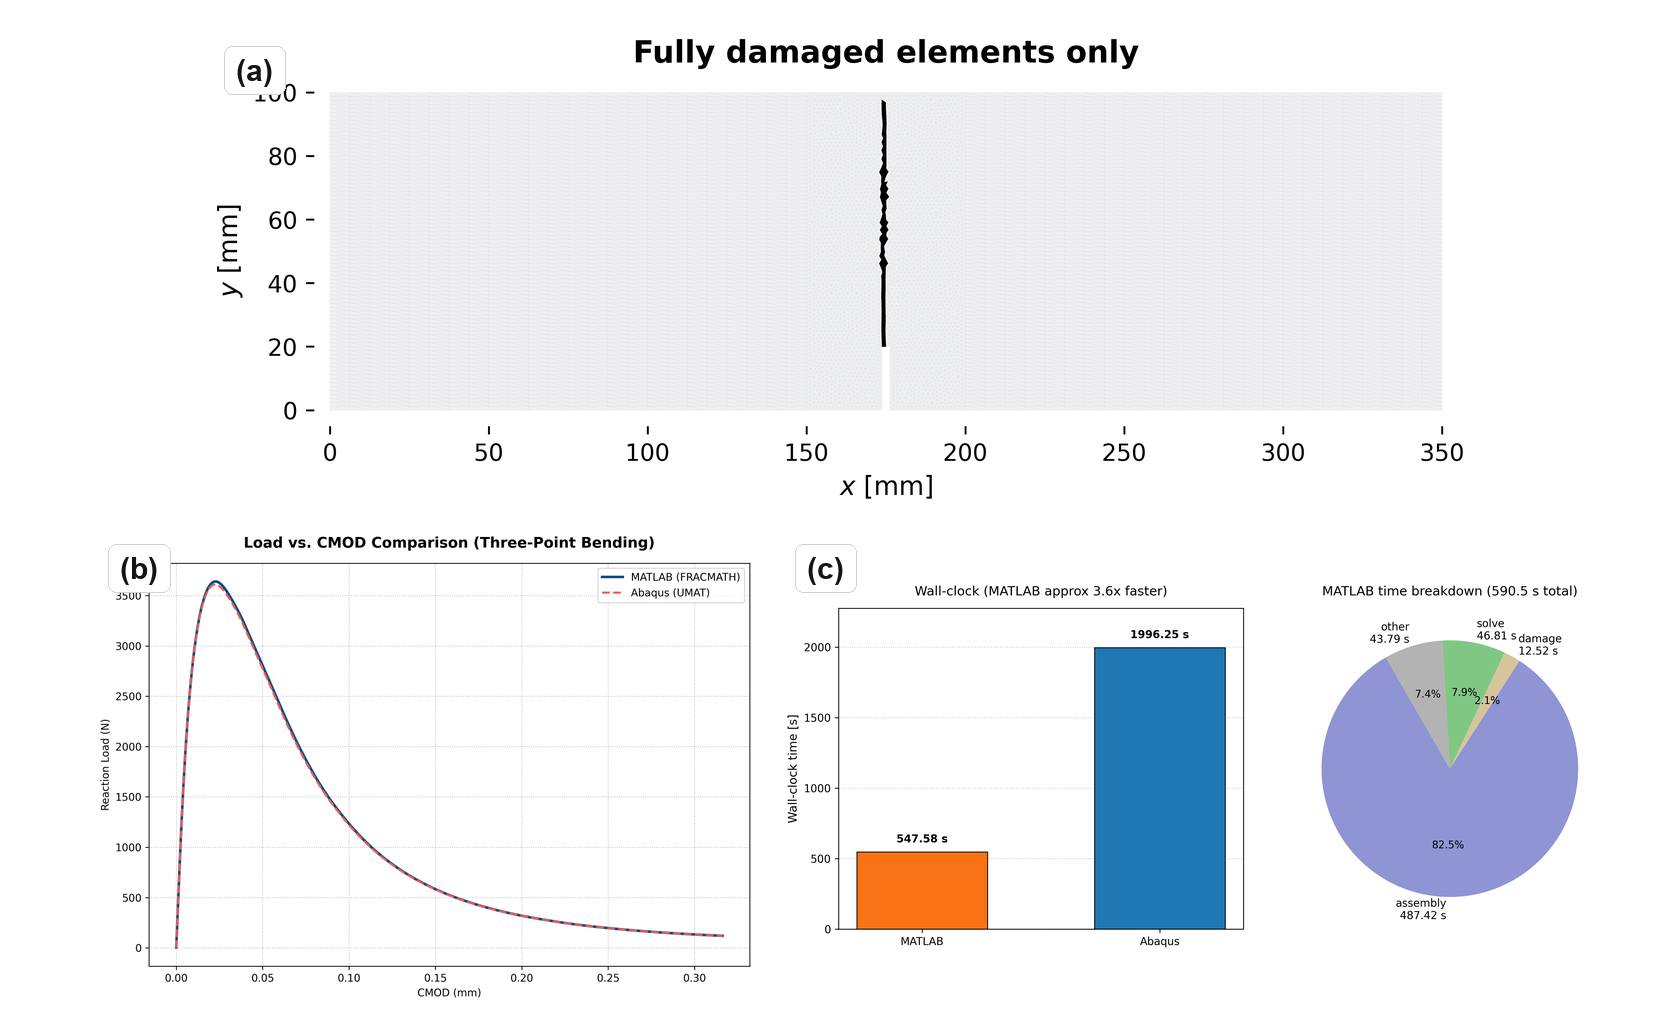
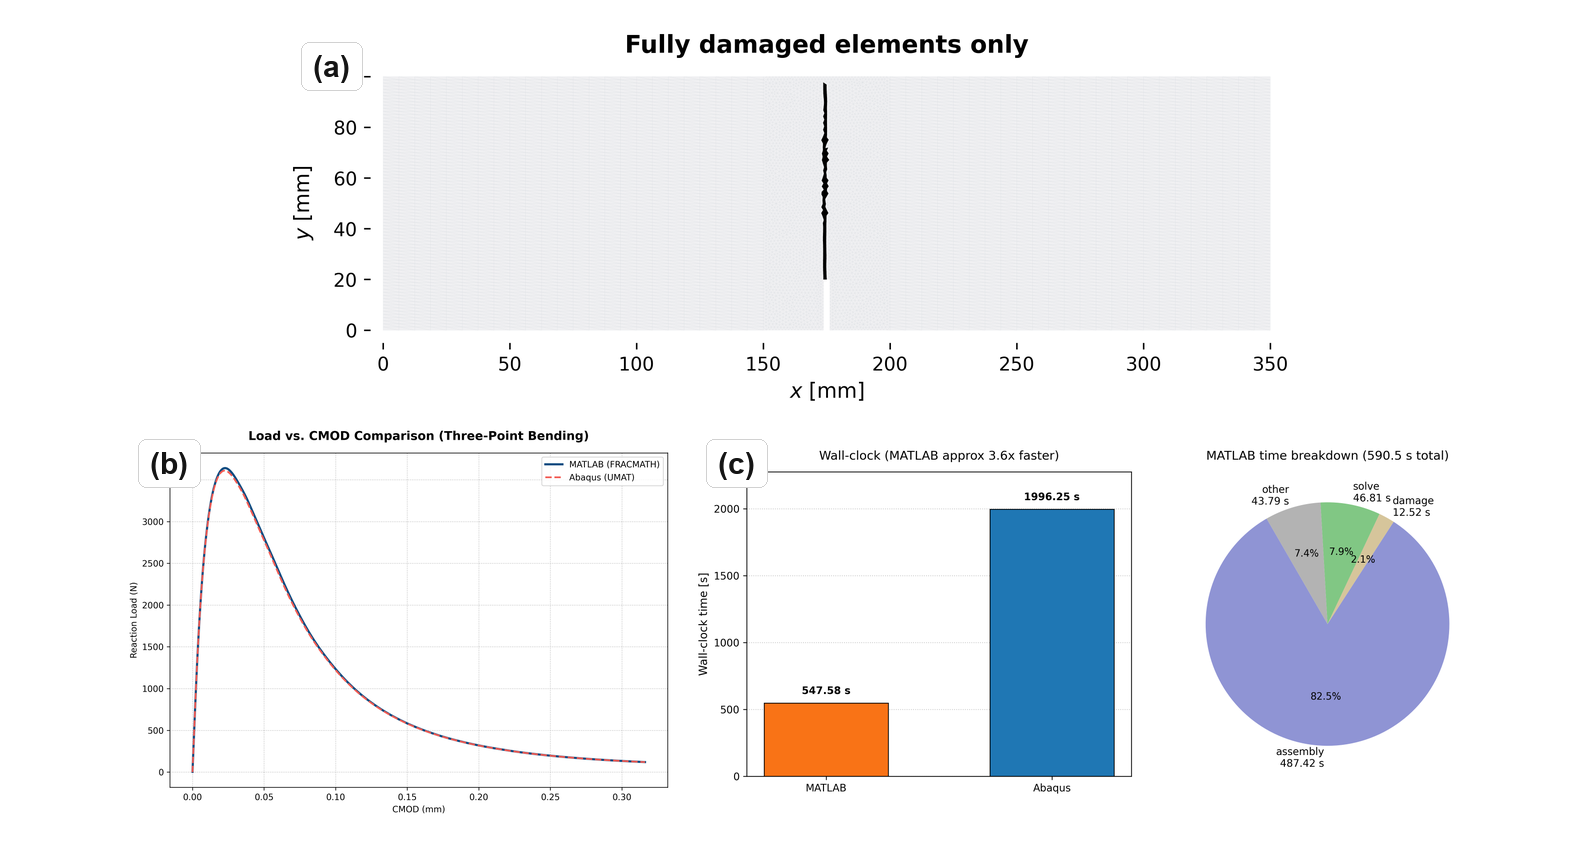
Tighten 3PB composite figure

diff --git a/paper/build_composite_figures.py b/paper/build_composite_figures.py
@@ -180,13 +180,13 @@ def nooru_mesh_layout(output: str) -> None:
 
 def three_pb_layout(output: str) -> None:
     """Compact 3PB validation panel for the JOSS page width."""
-    width = 1680
-    margin = 34
-    gap = 28
+    width = 1580
+    margin = 30
+    gap = 22
 
-    damage = fit(load("abaqus_fig_damage_last_step.png"), width - 2 * margin, 470)
-    response = fit(load("load_cmod_comparison.png"), 760, 470)
-    timing = fit(load("time_comparison_bar.png"), 800, 470)
+    damage = fit(load("abaqus_fig_damage_last_step.png"), width - 2 * margin, 375)
+    response = fit(load("load_cmod_comparison.png"), 710, 390)
+    timing = fit(load("time_comparison_bar.png"), 760, 390)
 
     bottom_h = max(response.height, timing.height)
     height = 2 * margin + damage.height + gap + bottom_h